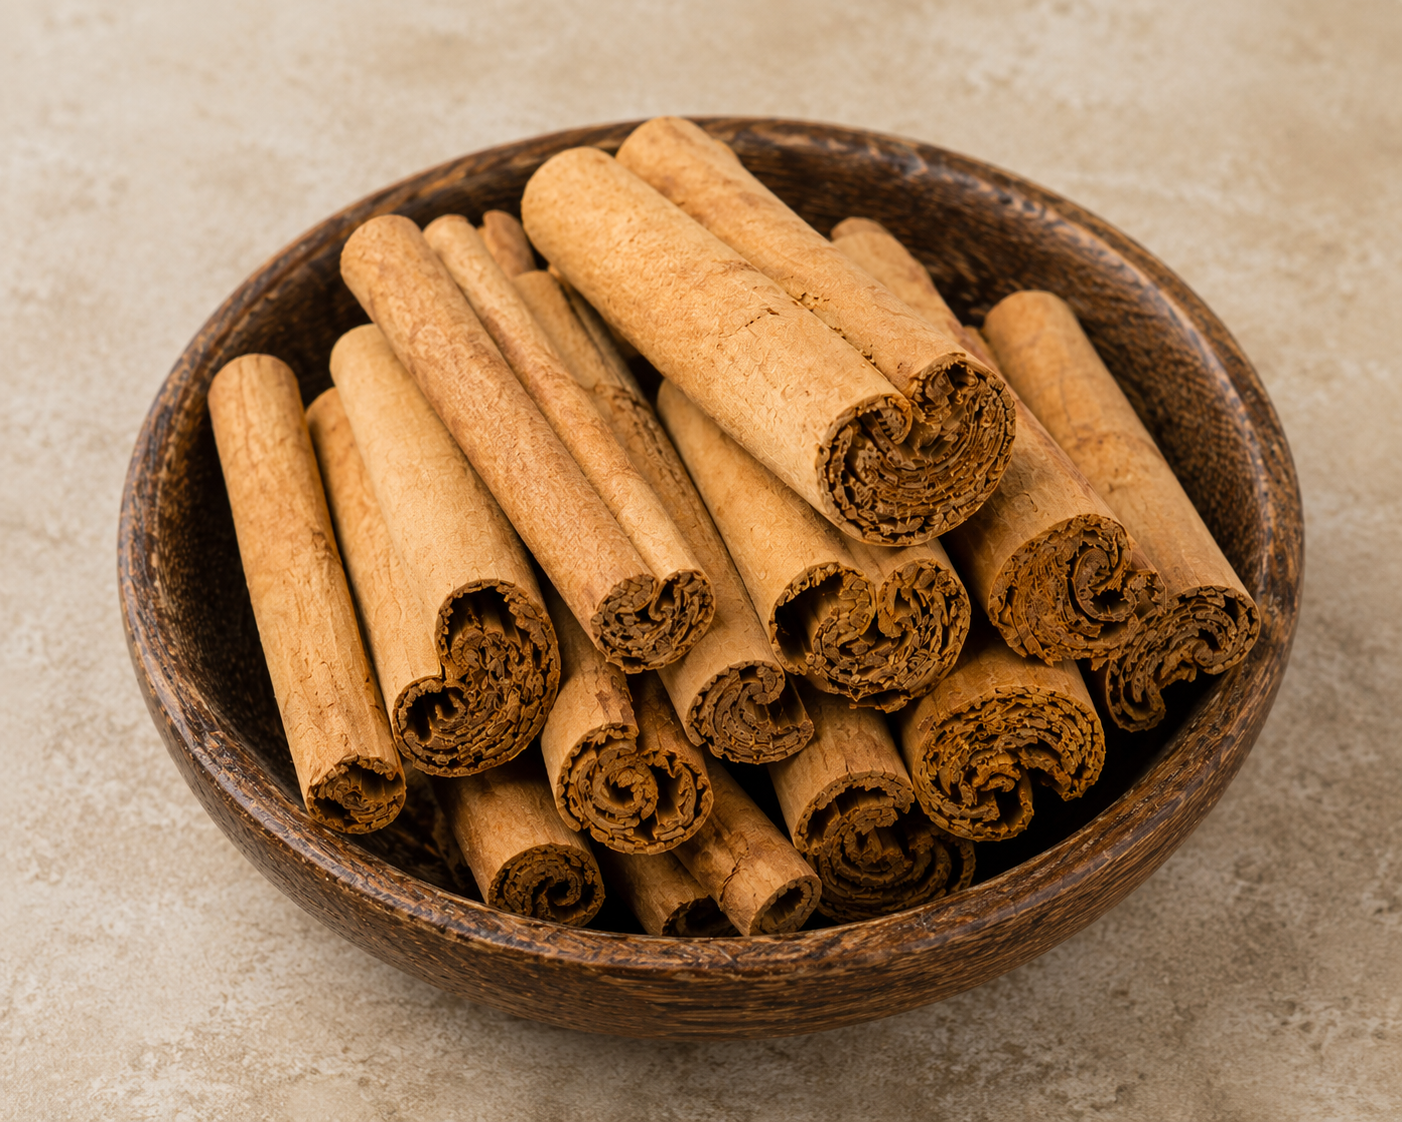
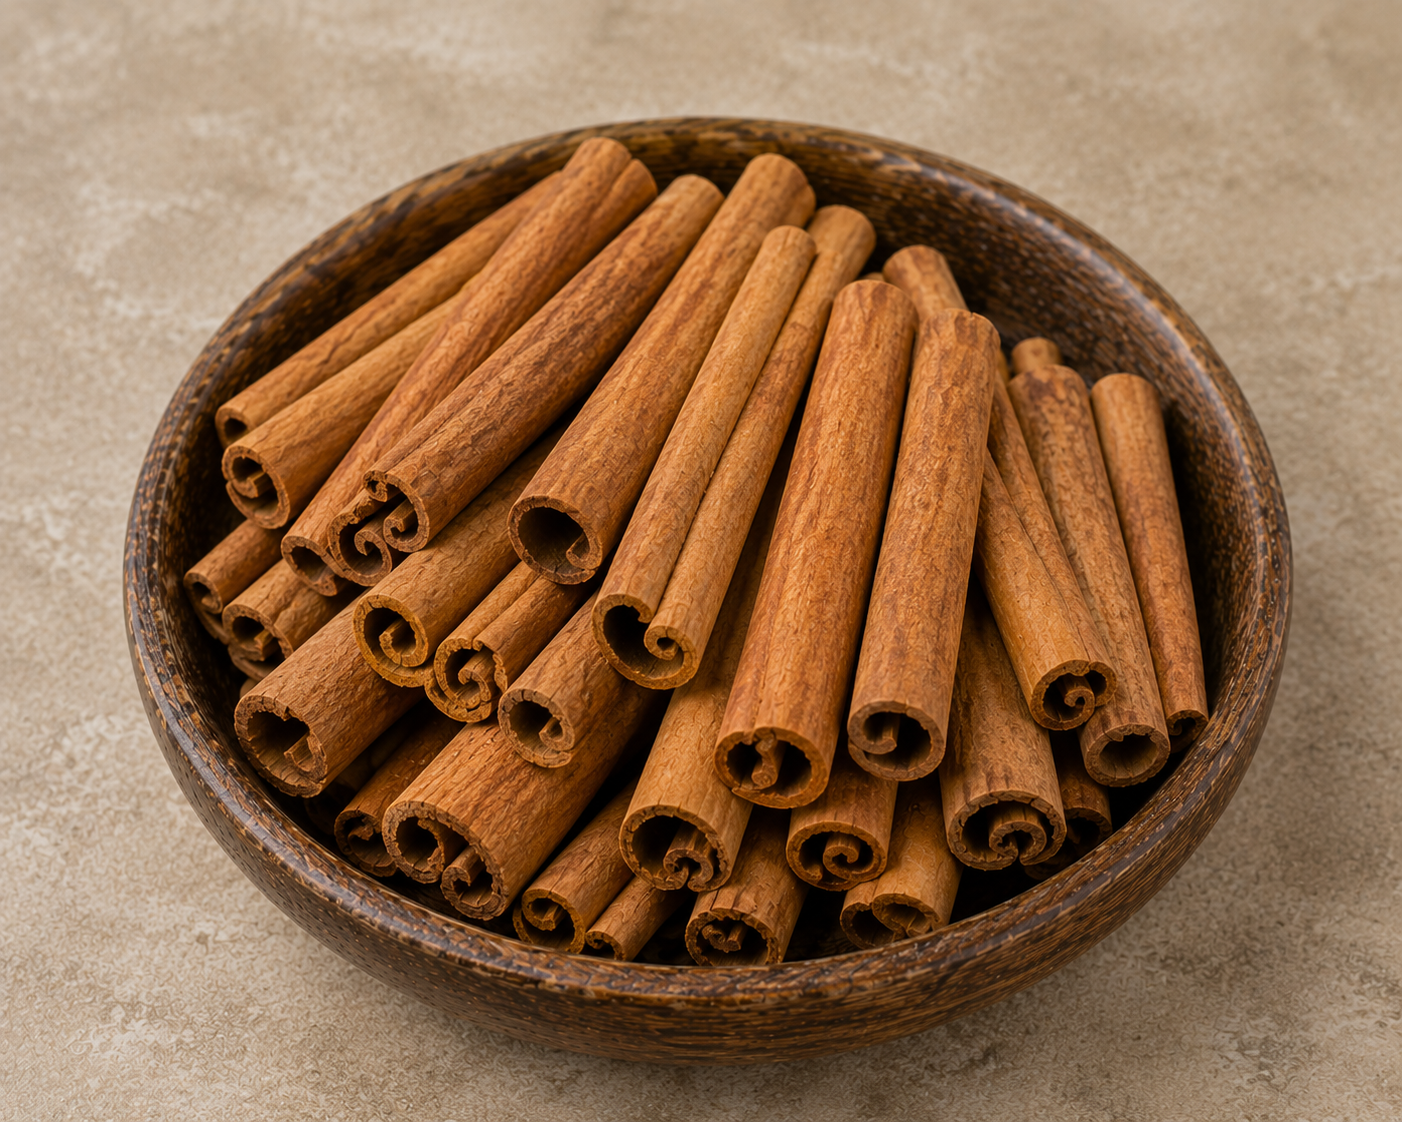
add bird eyed chill and fix cassia and cinnamon pics

diff --git a/index.html b/index.html
@@ -160,7 +160,7 @@
 
             <p class="mt-8 text-lg leading-8 text-[var(--clr-text-light)]">
 
-                Varada Spices Pvt. Ltd. manufactures and supplies premium-quality
+                Varada Spices Pvt. Ltd. processes and supplies premium-quality
                 whole spices in bulk to wholesalers, food manufacturers,
                 exporters and retailers. Every order is graded and prepared to
                 match your quality standards, specifications and business
@@ -296,7 +296,7 @@
 
                     We believe good business is built on trust,
                     consistency and clear communication.
-                    We manufacture and supply whole spices in bulk,
+                    We process and supply whole spices in bulk,
                     working with wholesalers, food manufacturers,
                     exporters and retailers who expect reliable
                     quality and dependable service.
@@ -542,6 +542,24 @@
                 </div>
 
             </div>
+
+
+            <!-- Bird Eyed Chilli -->
+
+            <div
+                class="group overflow-hidden rounded-[var(--radius-xl)] bg-white hover:cursor-pointer shadow-[var(--shadow-card)] transition duration-300 hover:-translate-y-2 hover:shadow-[var(--shadow-lg)]">
+
+                <img src="assets/spices/bird-eyed-chilli.png" alt="Dry Ginger"
+                    class="aspect-square w-full object-cover transition duration-500 group-hover:scale-105">
+
+                <div class="p-6 text-center">
+                    <h3 class="font-[var(--font-heading)] text-2xl transition group-hover:text-[var(--clr-secondary)]">
+                        Bird Eyed Chill
+                    </h3>
+                </div>
+
+            </div>
+
 
         </div>
 
